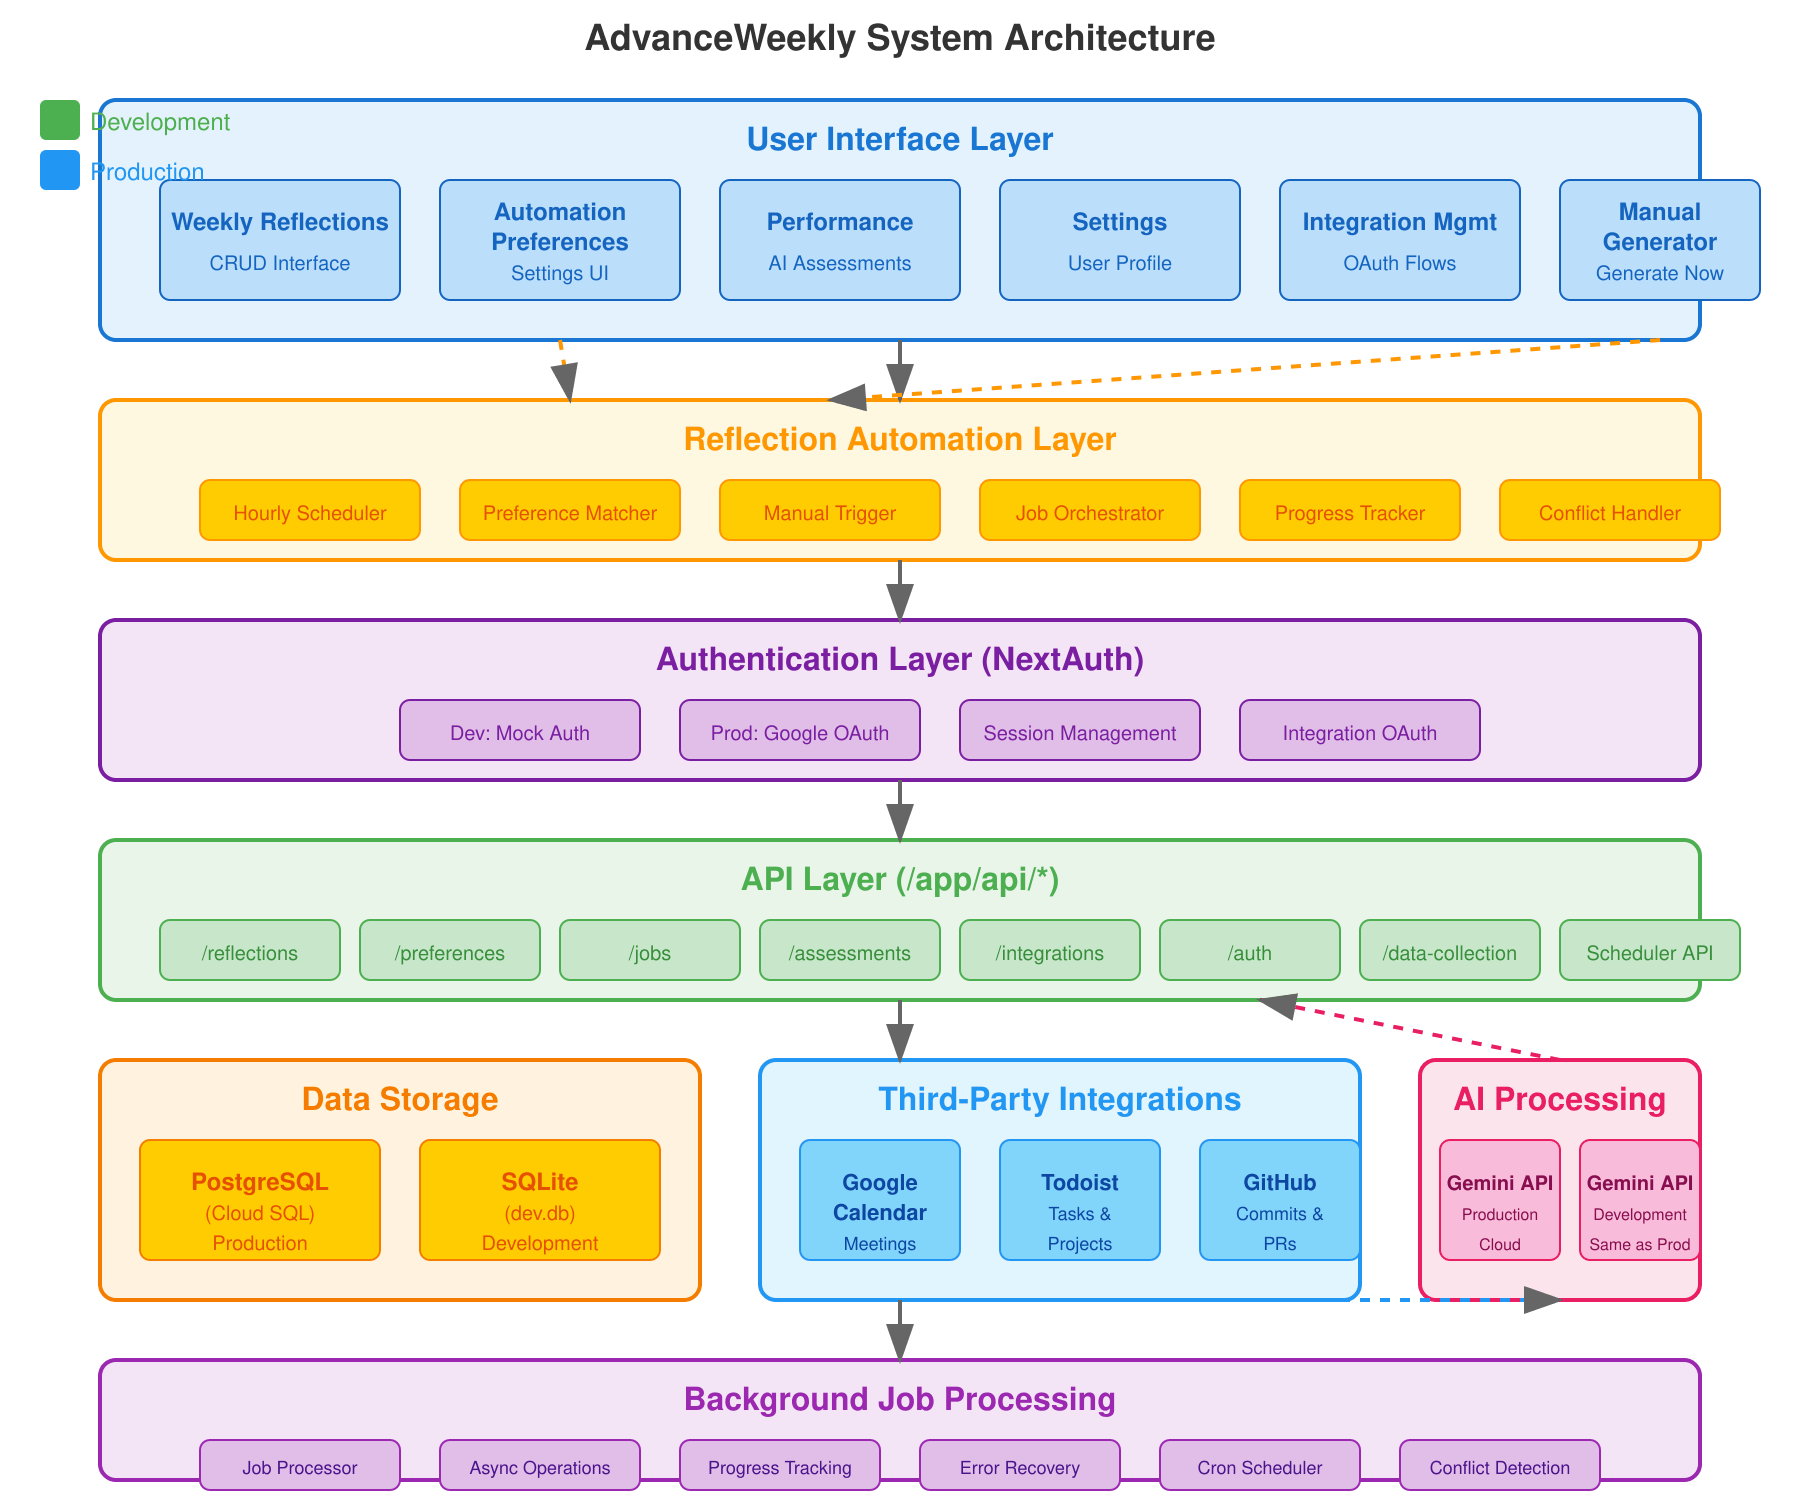
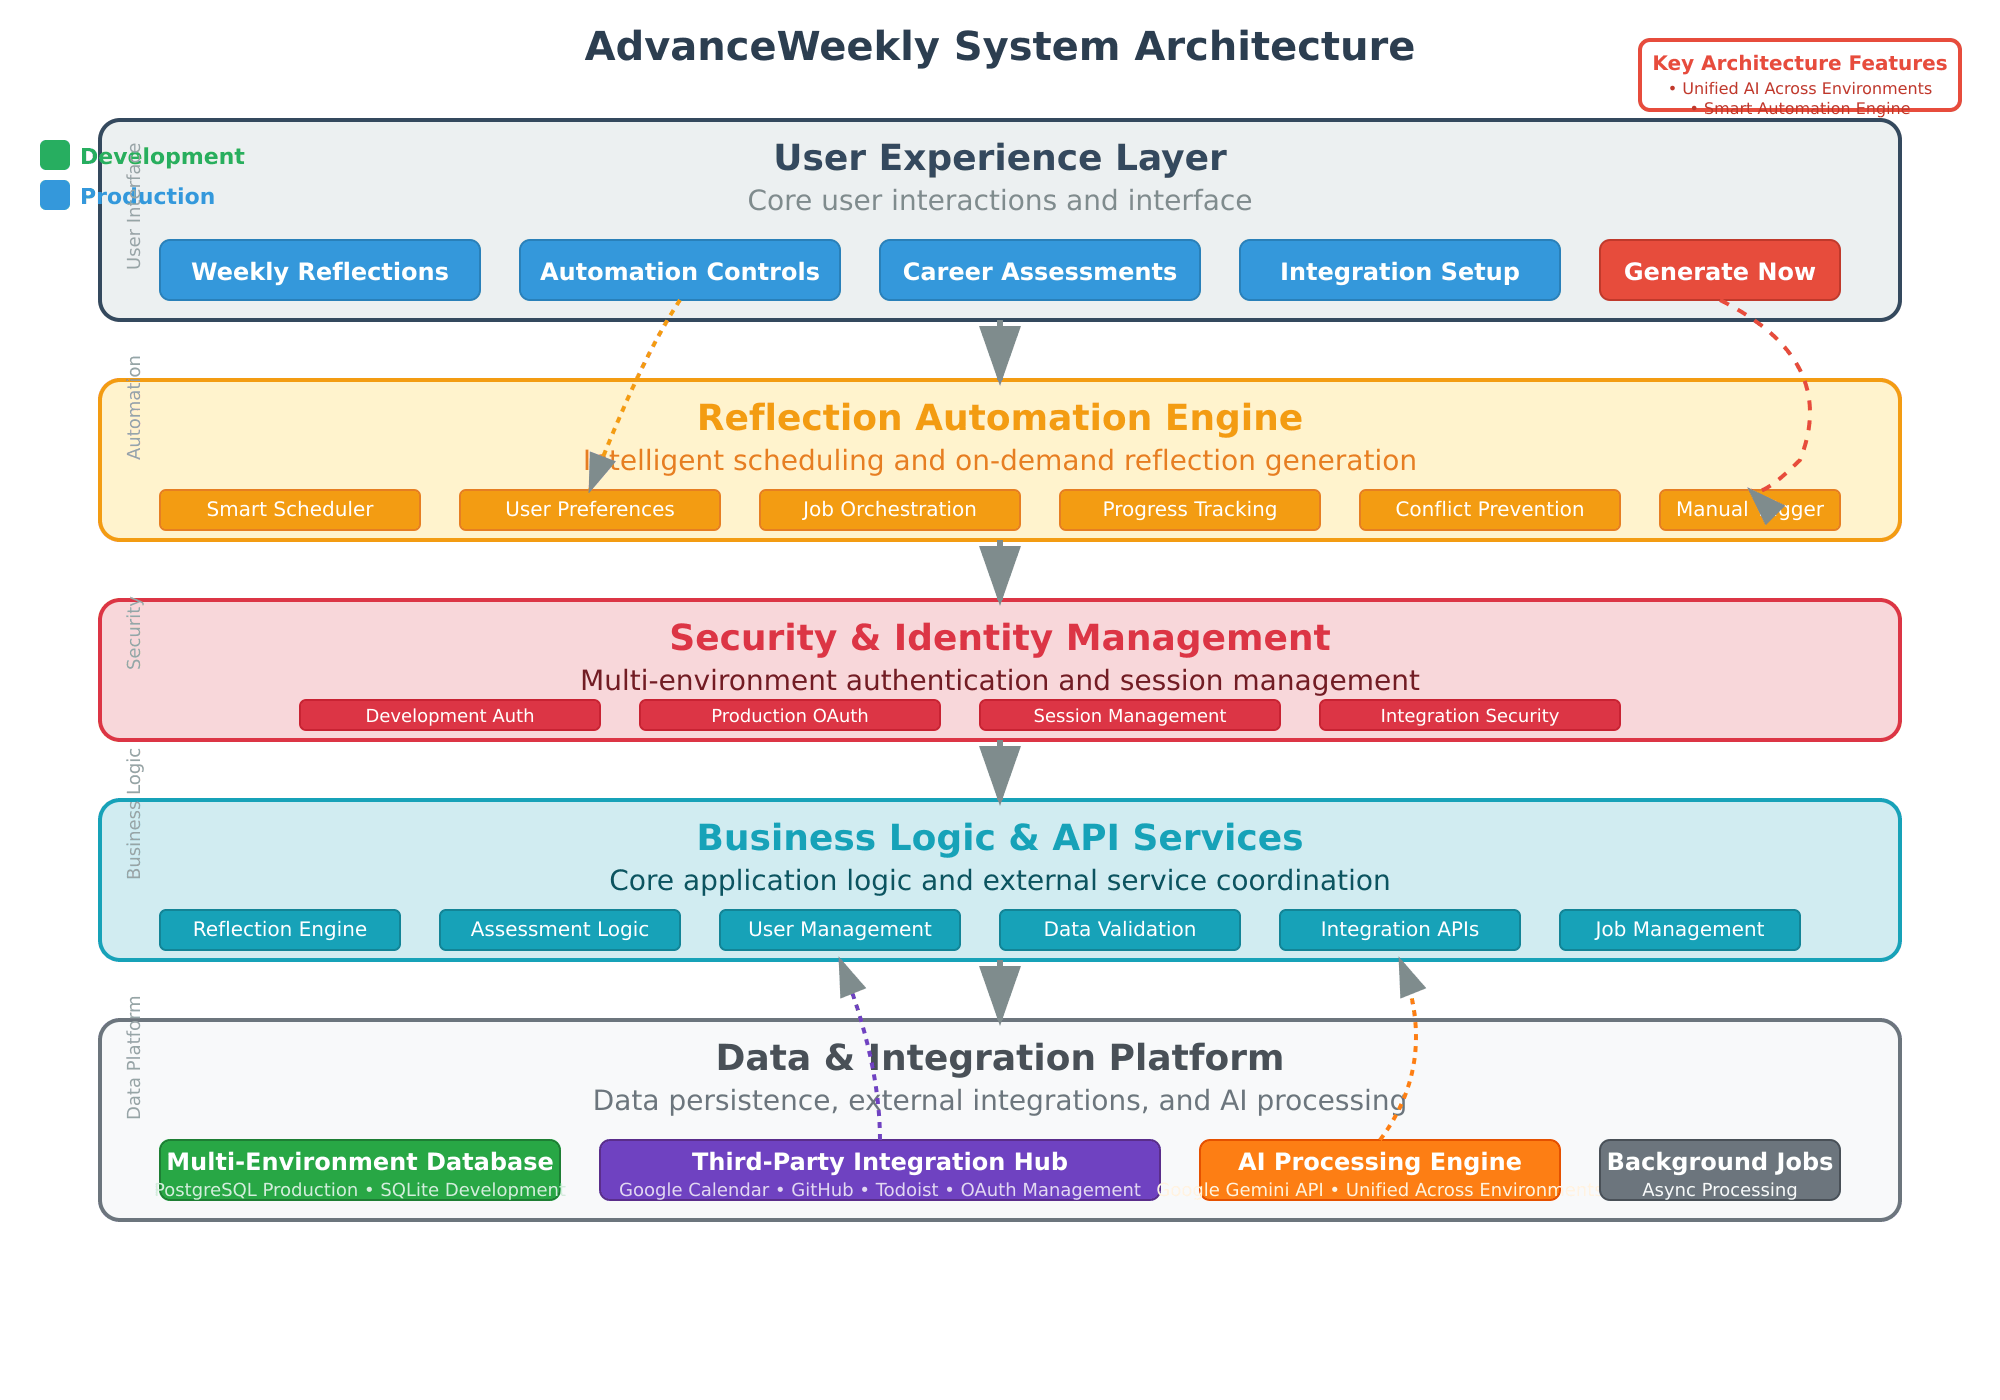
feat: Redesign architecture diagram with higher-level abstraction and product focus
## Key Improvements

### 🎯 Higher Abstraction Level
- **Product-Focused**: Emphasizes user capabilities and business value over technical details
- **Responsibility-Based**: Each layer clearly defines its core responsibilities and focus areas
- **Feature-Oriented**: Components describe what they enable rather than how they work

### 🎨 Visual Design Enhancements
- **Clean Layout**: Larger canvas (1000x700) with proper spacing to prevent box overflow
- **Clear Hierarchy**: 5 distinct layers with color-coded responsibilities
- **Better Typography**: Improved font sizing and contrast for readability
- **Proper Arrows**: Well-positioned data flow arrows with clear visual hierarchy

### 📋 Layer Organization
1. **User Experience Layer**: User interactions and interface capabilities
2. **Reflection Automation Engine**: Smart scheduling and automation intelligence
3. **Security & Identity Management**: Multi-environment auth and session handling
4. **Business Logic & API Services**: Core application logic and service orchestration
5. **Data & Integration Platform**: Persistence, integrations, AI, and background processing

### 🔧 Technical Improvements
- **No Technical Jargon**: Removed endpoint names and implementation details
- **Business Context**: Each component explains its business value
- **Key Features Callout**: Highlighted unified AI and smart automation
- **Environment Awareness**: Clear dev vs production indicators
[…]

diff --git a/docs/ARCHITECTURE.md b/docs/ARCHITECTURE.md
@@ -47,14 +47,34 @@ The **staging environment** is accessible at `https://advanceweekly.io/staging` 
 
 ![System Architecture](./architecture-diagram.png)
 
-The diagram illustrates the layered architecture with clear separation between:
-- **User Interface Layer**: Landing page, Friday Reflections, Career Check-Ins, and integration management
-- **Authentication Layer**: Environment-aware auth with NextAuth supporting both mock and Google OAuth
-- **API Layer**: RESTful endpoints for all system operations including scheduled processing
-- **Data Storage**: Dual database support (SQLite dev, PostgreSQL prod)
-- **Integration Services**: Third-party connections to Google Calendar, Todoist, and GitHub
-- **AI Processing**: Consistent LLM integration (Google Gemini API for all environments)
-- **Scheduled Processing**: GCP-based batch jobs for weekly data collection and analysis
+The diagram illustrates the layered architecture focused on core product capabilities and responsibilities:
+
+**🎯 User Experience Layer**
+- Core user interactions: weekly reflections, automation controls, career assessments
+- Integration setup and manual generation triggers
+- Focus: User-centric feature delivery and interface design
+
+**🤖 Reflection Automation Engine**
+- Smart scheduling based on user preferences and timezone awareness
+- Job orchestration with progress tracking and conflict prevention  
+- Focus: Intelligent automation that works seamlessly in the background
+
+**🔐 Security & Identity Management**
+- Multi-environment authentication (development vs production OAuth)
+- Session management and integration security
+- Focus: Secure, environment-aware identity handling
+
+**⚙ Business Logic & API Services**
+- Core application logic: reflection engine, assessment processing, user management
+- Data validation and integration coordination
+- Focus: Business rules and service orchestration
+
+**🗄 Data & Integration Platform**
+- Multi-environment database strategy (PostgreSQL/SQLite)
+- Third-party integration hub (Google Calendar, GitHub, Todoist)
+- AI processing engine (unified Google Gemini API)
+- Background job processing for async operations
+- Focus: Data persistence, external connectivity, and AI-powered insights
 
 ## Integration System Architecture
 
